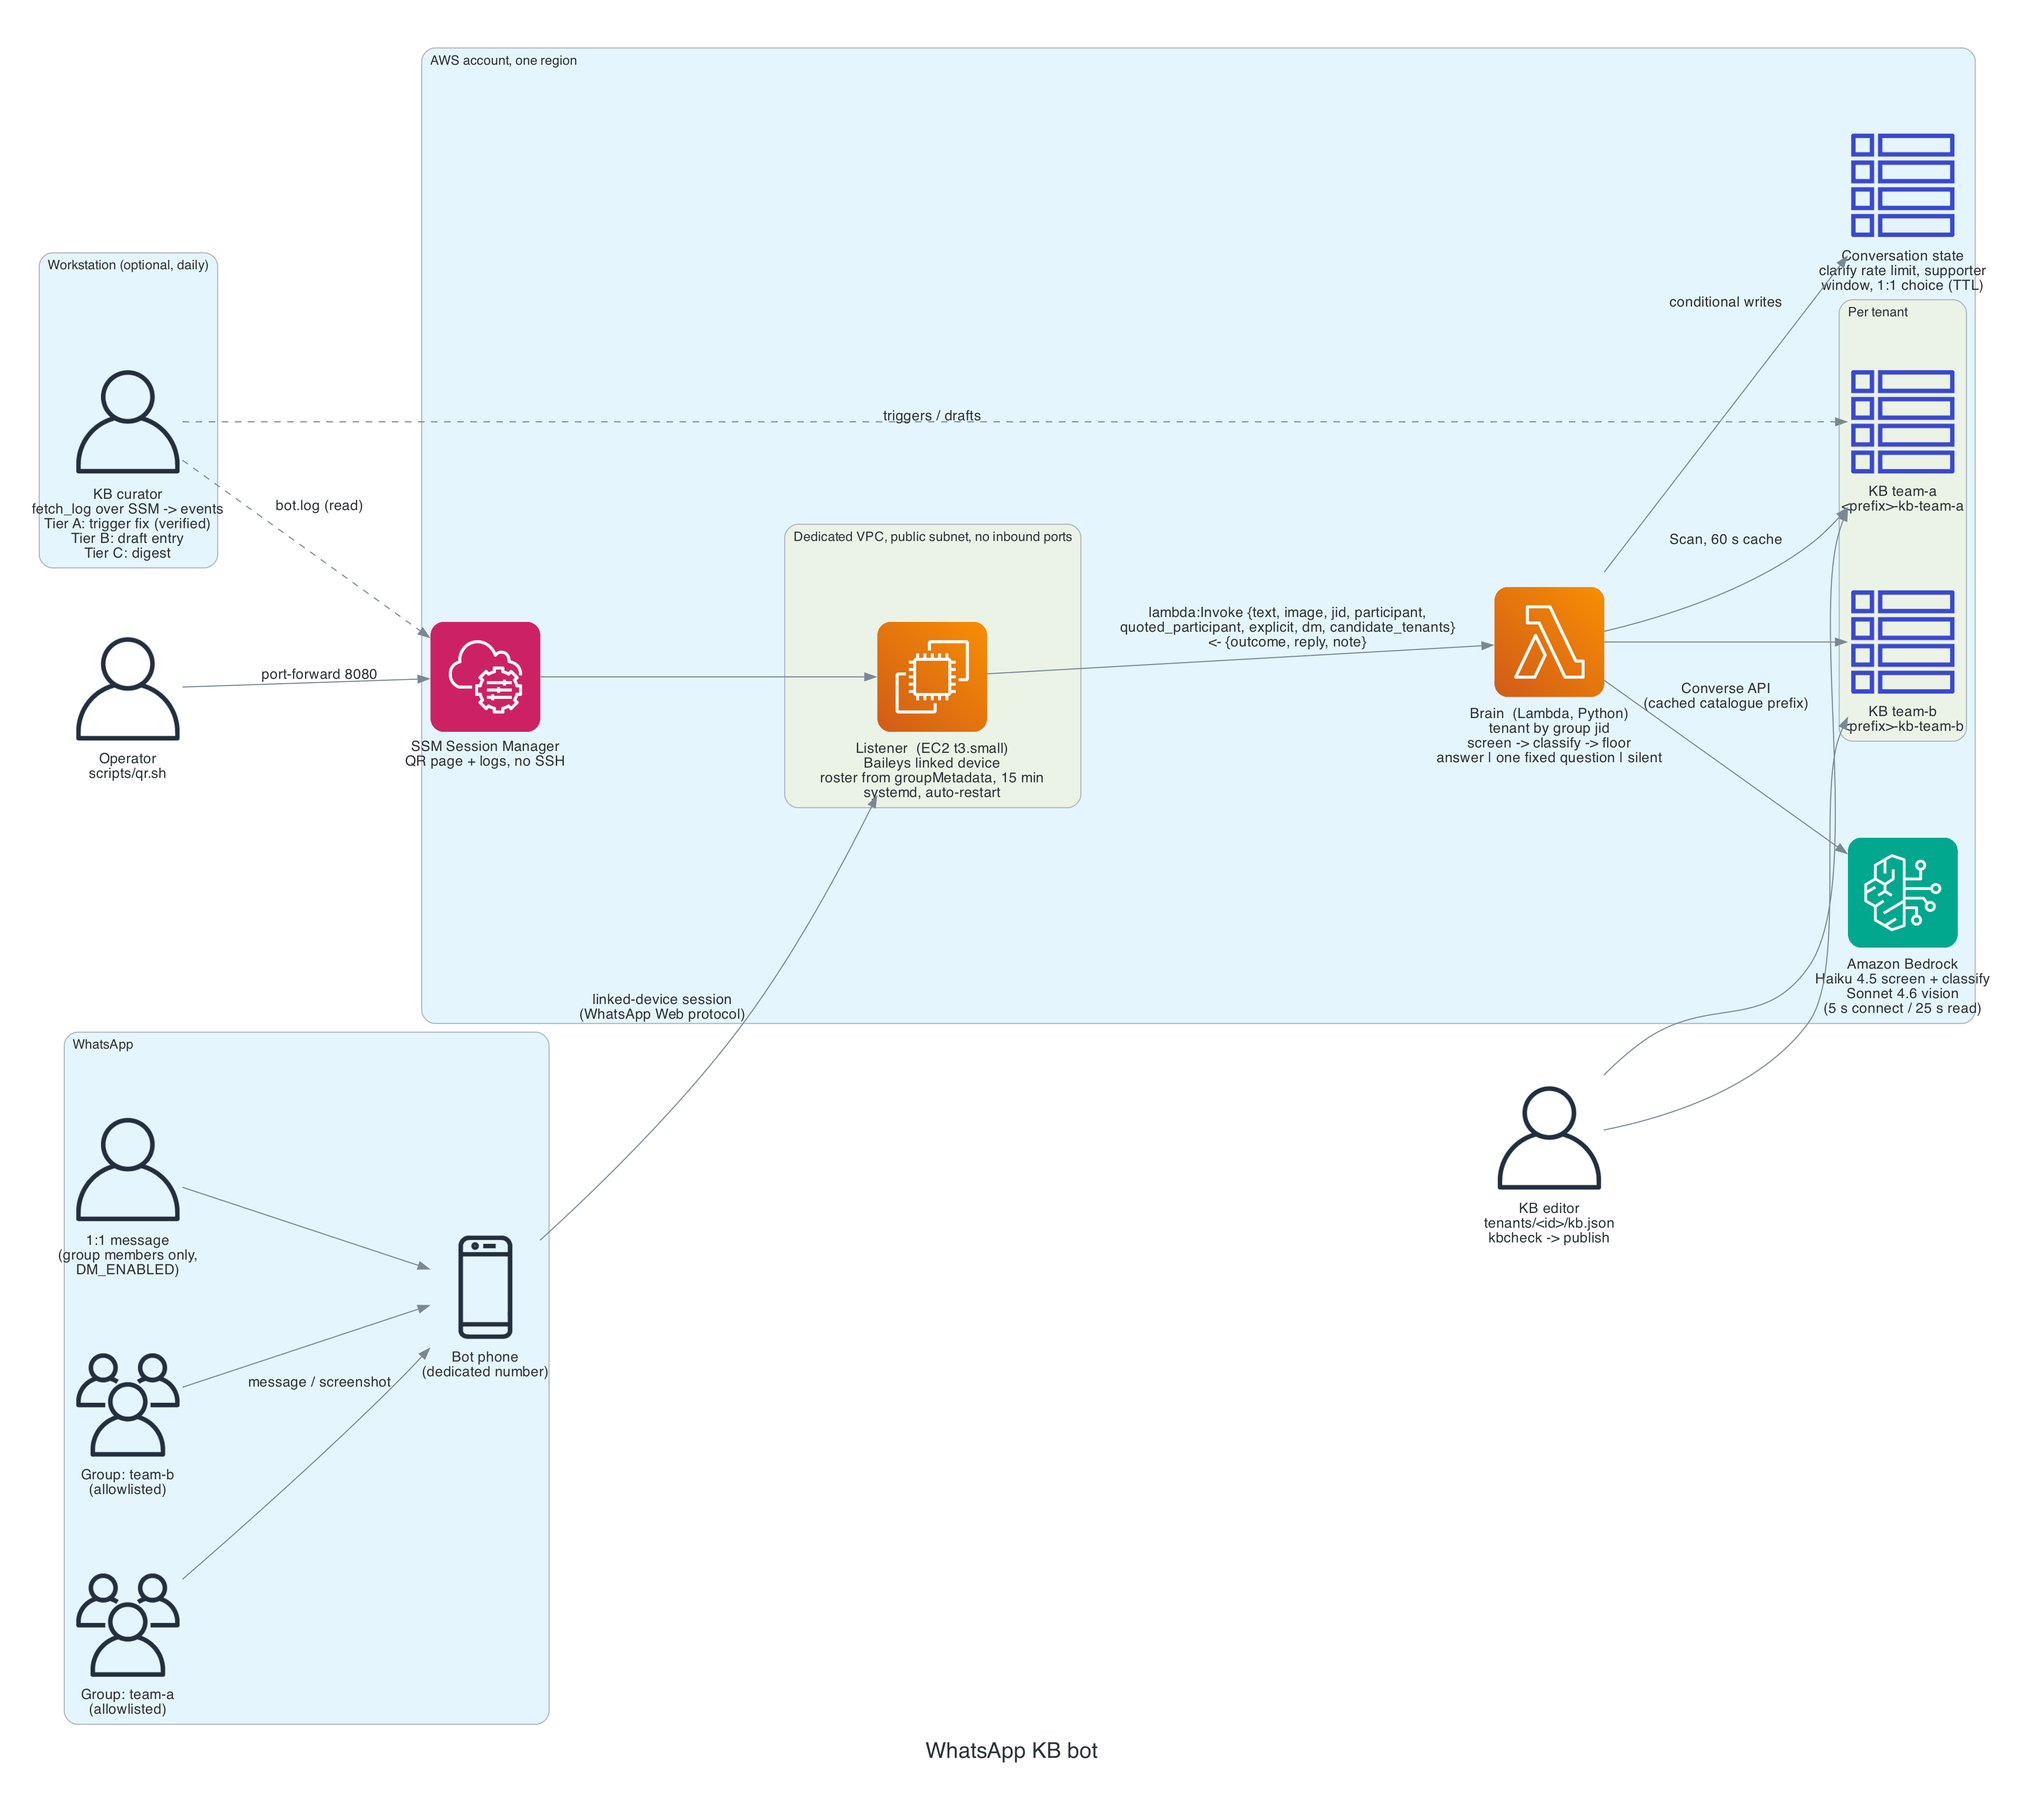
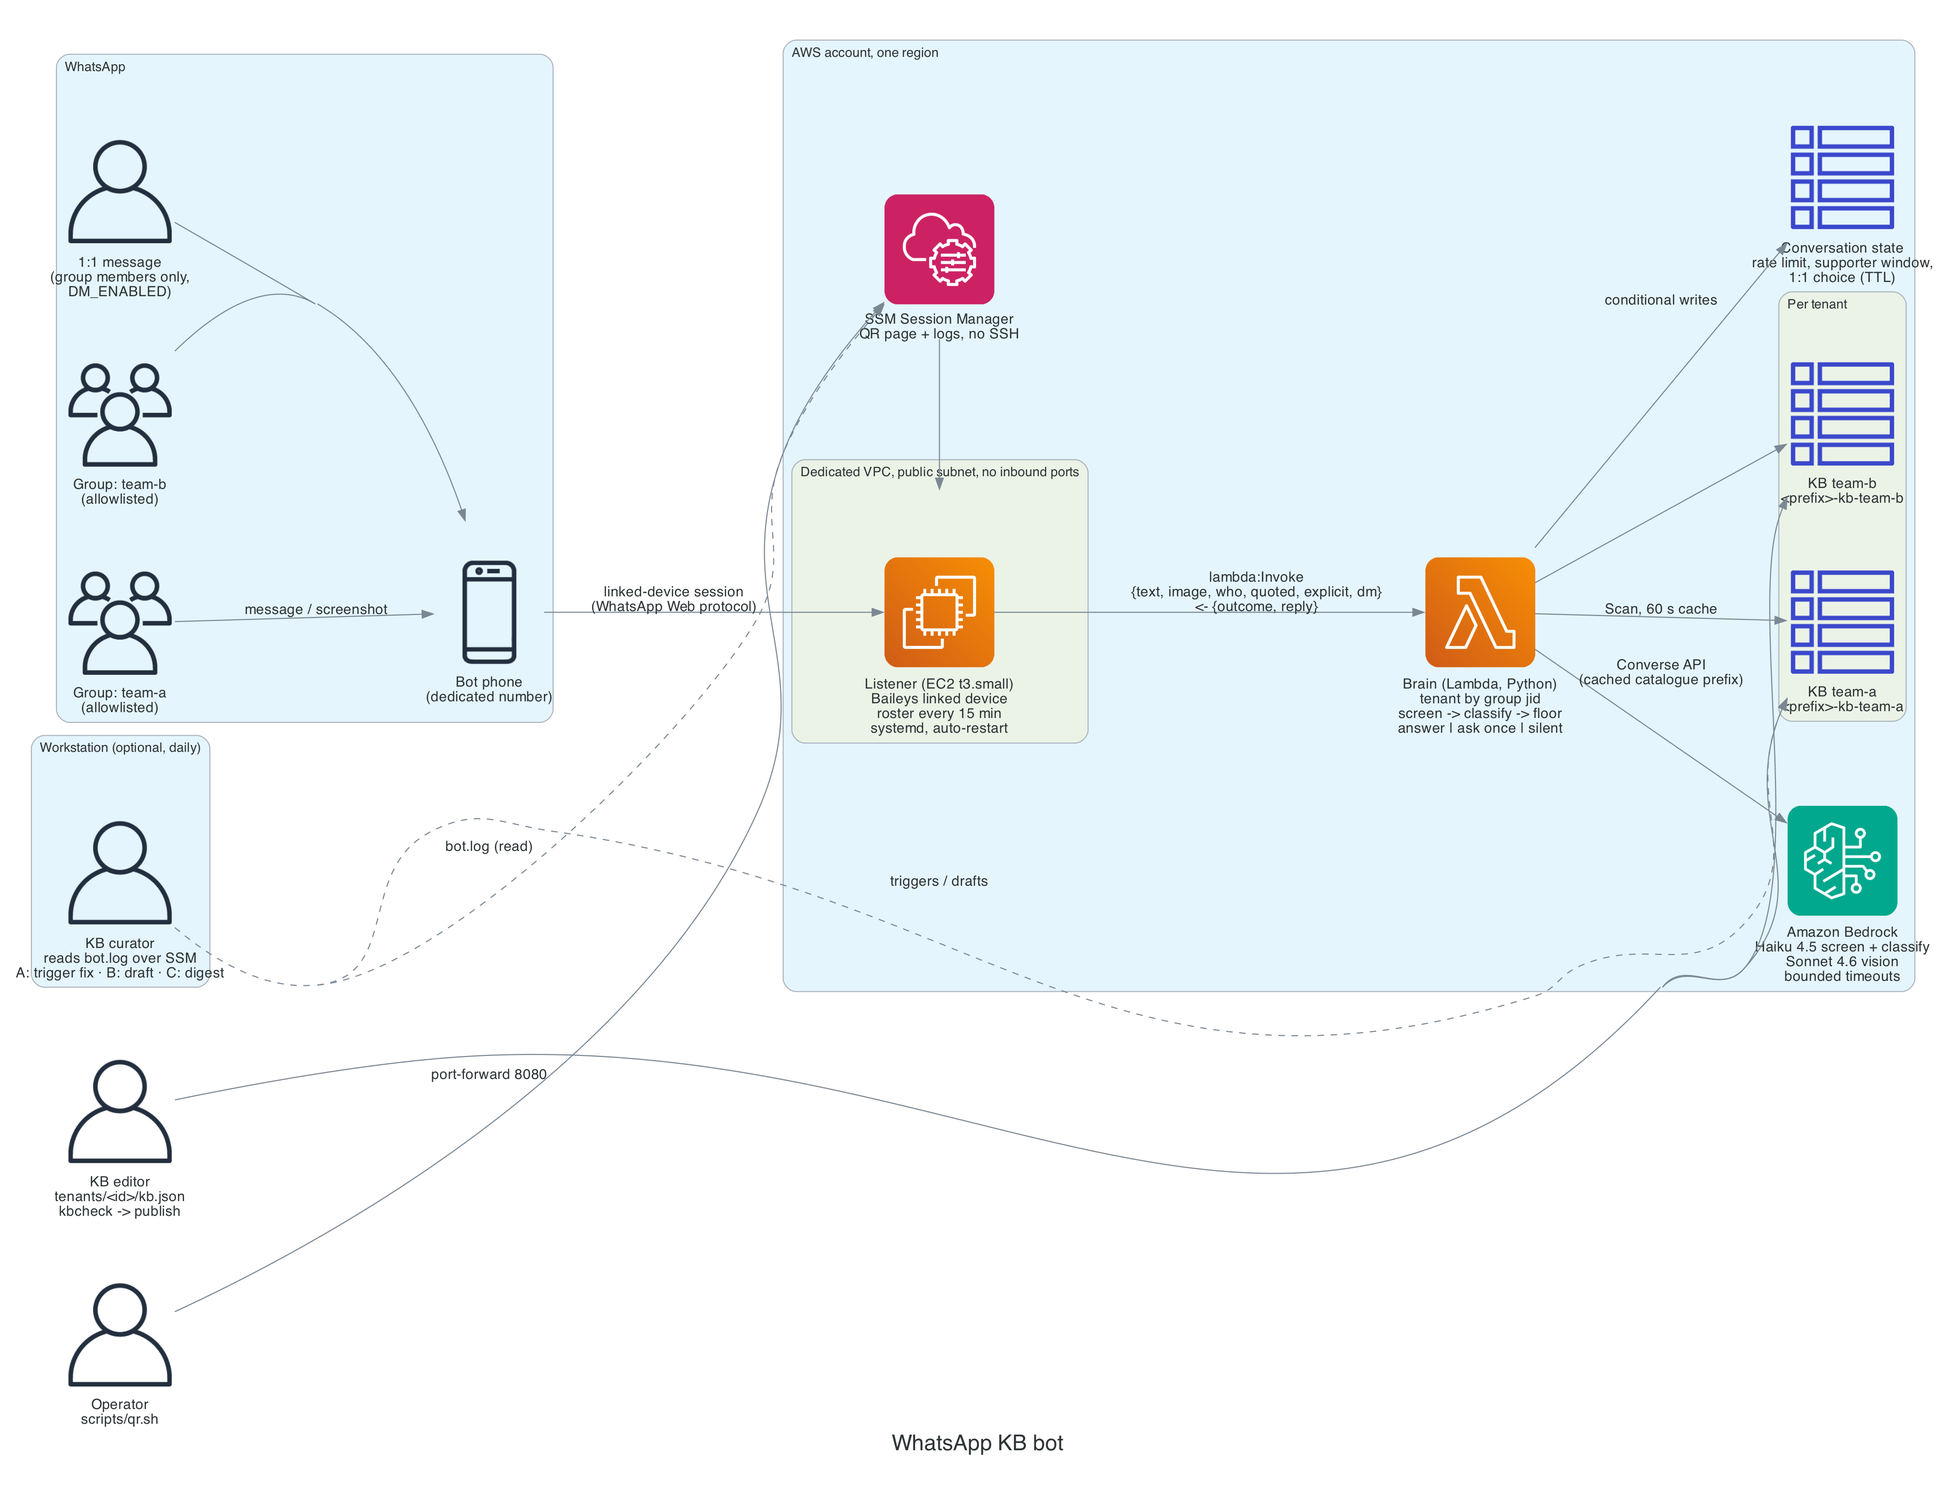
diagrams: re-render the AWS architecture, and make it readable at article width
The source already had 1:1 chats, two tenants and the curator; only the PNG was stale, from
before any of that. Re-rendered, and the layout fixed: the people are off the message path, so
their edges now carry constraint=false — without it graphviz stacked the whole picture
vertically and it was unreadable in an article column.

diff --git a/docs/diagrams/architecture.py b/docs/diagrams/architecture.py
@@ -12,7 +12,10 @@ from diagrams.onprem.client import User
 OUT = os.path.join(os.path.dirname(os.path.abspath(__file__)), "architecture")
 
 with Diagram("WhatsApp KB bot", filename=OUT, show=False, direction="LR",
-             graph_attr={"pad": "0.5", "nodesep": "0.5", "ranksep": "1.0", "fontsize": "20", "dpi": "160", "splines": "spline"}):
+             # A diagram that goes in an article has to be WIDE: a near-square render is
+             # unreadable at Medium's column width. Keep labels short for the same reason.
+             graph_attr={"pad": "0.4", "nodesep": "0.35", "ranksep": "1.1", "fontsize": "20",
+                         "dpi": "160", "splines": "spline", "concentrate": "true"}):
     with Cluster("WhatsApp"):
         group_a = Users("Group: team-a\n(allowlisted)")
         group_b = Users("Group: team-b\n(allowlisted)")
@@ -21,17 +24,17 @@ with Diagram("WhatsApp KB bot", filename=OUT, show=False, direction="LR",
 
     with Cluster("AWS account, one region"):
         with Cluster("Dedicated VPC, public subnet, no inbound ports"):
-            ec2 = EC2("Listener  (EC2 t3.small)\nBaileys linked device\nroster from groupMetadata, 15 min\nsystemd, auto-restart")
-        brain = Lambda("Brain  (Lambda, Python)\ntenant by group jid\nscreen -> classify -> floor\nanswer | one fixed question | silent")
-        bedrock = Bedrock("Amazon Bedrock\nHaiku 4.5 screen + classify\nSonnet 4.6 vision\n(5 s connect / 25 s read)")
+            ec2 = EC2("Listener (EC2 t3.small)\nBaileys linked device\nroster every 15 min\nsystemd, auto-restart")
+        brain = Lambda("Brain (Lambda, Python)\ntenant by group jid\nscreen -> classify -> floor\nanswer | ask once | silent")
+        bedrock = Bedrock("Amazon Bedrock\nHaiku 4.5 screen + classify\nSonnet 4.6 vision\nbounded timeouts")
         with Cluster("Per tenant"):
             kb_a = DynamodbTable("KB team-a\n<prefix>-kb-team-a")
             kb_b = DynamodbTable("KB team-b\n<prefix>-kb-team-b")
-        convo = DynamodbTable("Conversation state\nclarify rate limit, supporter\nwindow, 1:1 choice (TTL)")
+        convo = DynamodbTable("Conversation state\nrate limit, supporter window,\n1:1 choice (TTL)")
         ssm = SystemsManager("SSM Session Manager\nQR page + logs, no SSH")
 
     with Cluster("Workstation (optional, daily)"):
-        curator = User("KB curator\nfetch_log over SSM -> events\nTier A: trigger fix (verified)\nTier B: draft entry\nTier C: digest")
+        curator = User("KB curator\nreads bot.log over SSM\nA: trigger fix · B: draft · C: digest")
     editor = User("KB editor\ntenants/<id>/kb.json\nkbcheck -> publish")
     operator = User("Operator\nscripts/qr.sh")
 
@@ -39,13 +42,17 @@ with Diagram("WhatsApp KB bot", filename=OUT, show=False, direction="LR",
     group_b >> phone
     dm >> phone
     phone >> Edge(label="linked-device session\n(WhatsApp Web protocol)") >> ec2
-    ec2 >> Edge(label="lambda:Invoke {text, image, jid, participant,\nquoted_participant, explicit, dm, candidate_tenants}\n<- {outcome, reply, note}") >> brain
+    ec2 >> Edge(label="lambda:Invoke\n{text, image, who, quoted, explicit, dm}\n<- {outcome, reply}") >> brain
     brain >> Edge(label="Converse API\n(cached catalogue prefix)") >> bedrock
     brain >> Edge(label="Scan, 60 s cache") >> kb_a
     brain >> kb_b
     brain >> Edge(label="conditional writes") >> convo
-    editor >> kb_a
-    editor >> kb_b
-    curator >> Edge(label="bot.log (read)", style="dashed") >> ssm
-    curator >> Edge(label="triggers / drafts", style="dashed") >> kb_a
-    operator >> Edge(label="port-forward 8080") >> ssm >> ec2
+    # The people are off the message path, so their edges must not drive the ranking: without
+    # constraint=false graphviz stacks the whole picture vertically and it stops being readable
+    # at an article's column width.
+    editor >> Edge(constraint="false") >> kb_a
+    editor >> Edge(constraint="false") >> kb_b
+    curator >> Edge(label="bot.log (read)", style="dashed", constraint="false") >> ssm
+    curator >> Edge(label="triggers / drafts", style="dashed", constraint="false") >> kb_a
+    operator >> Edge(label="port-forward 8080", constraint="false") >> ssm
+    ssm >> Edge(constraint="false") >> ec2
